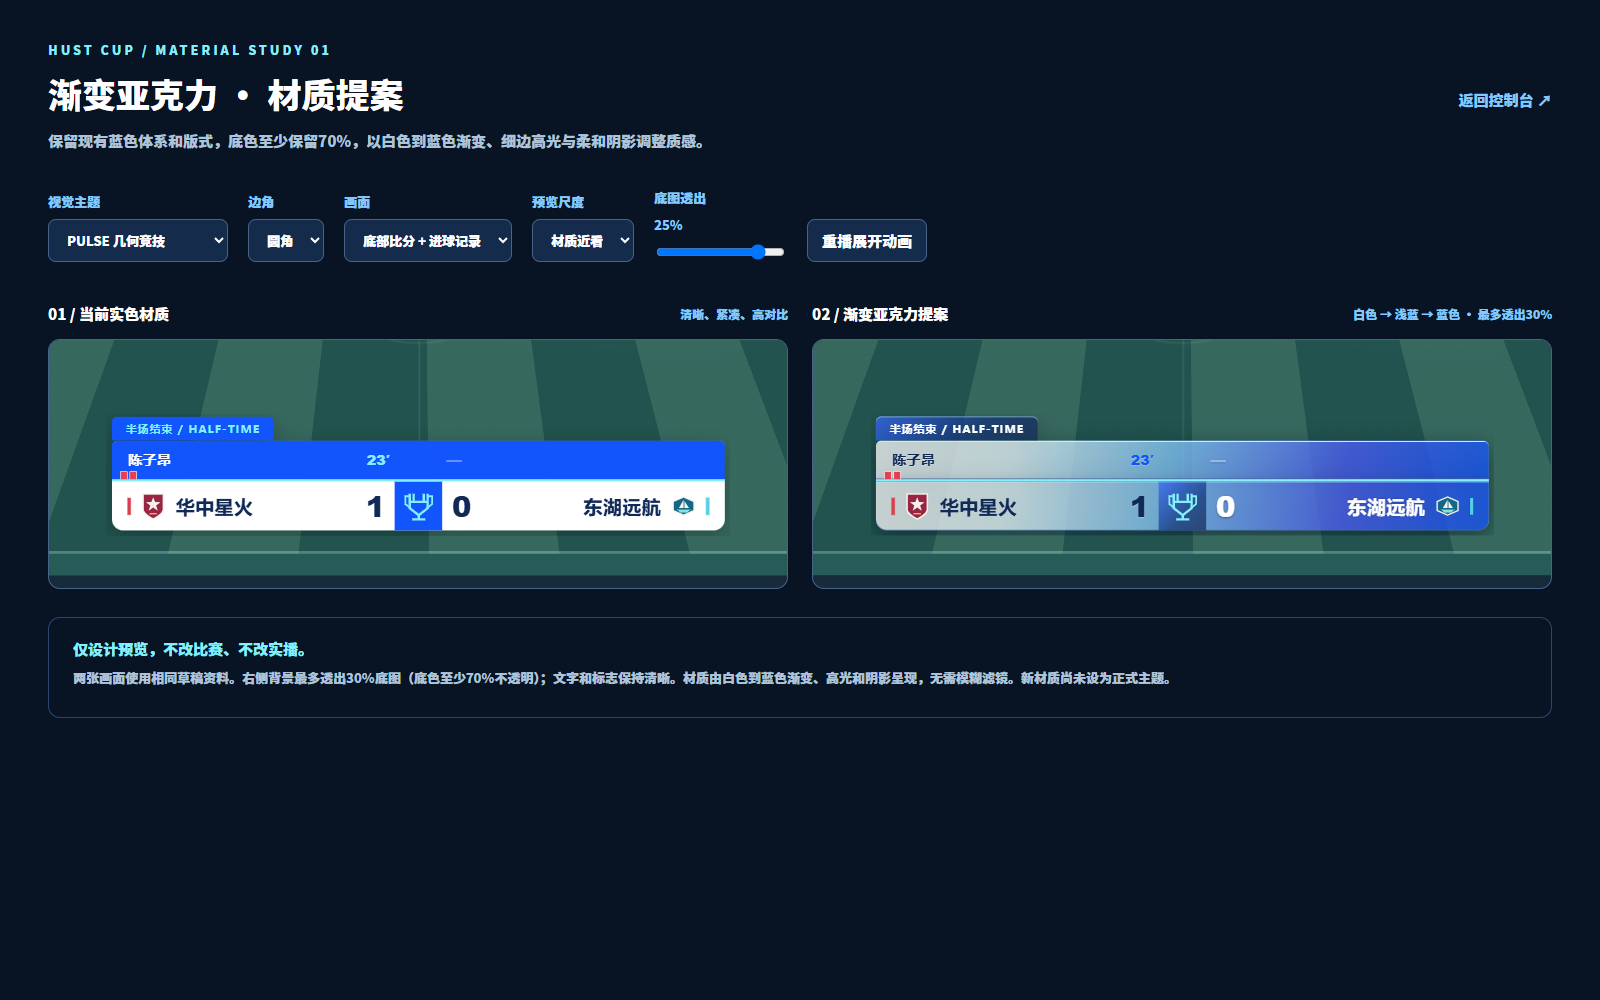
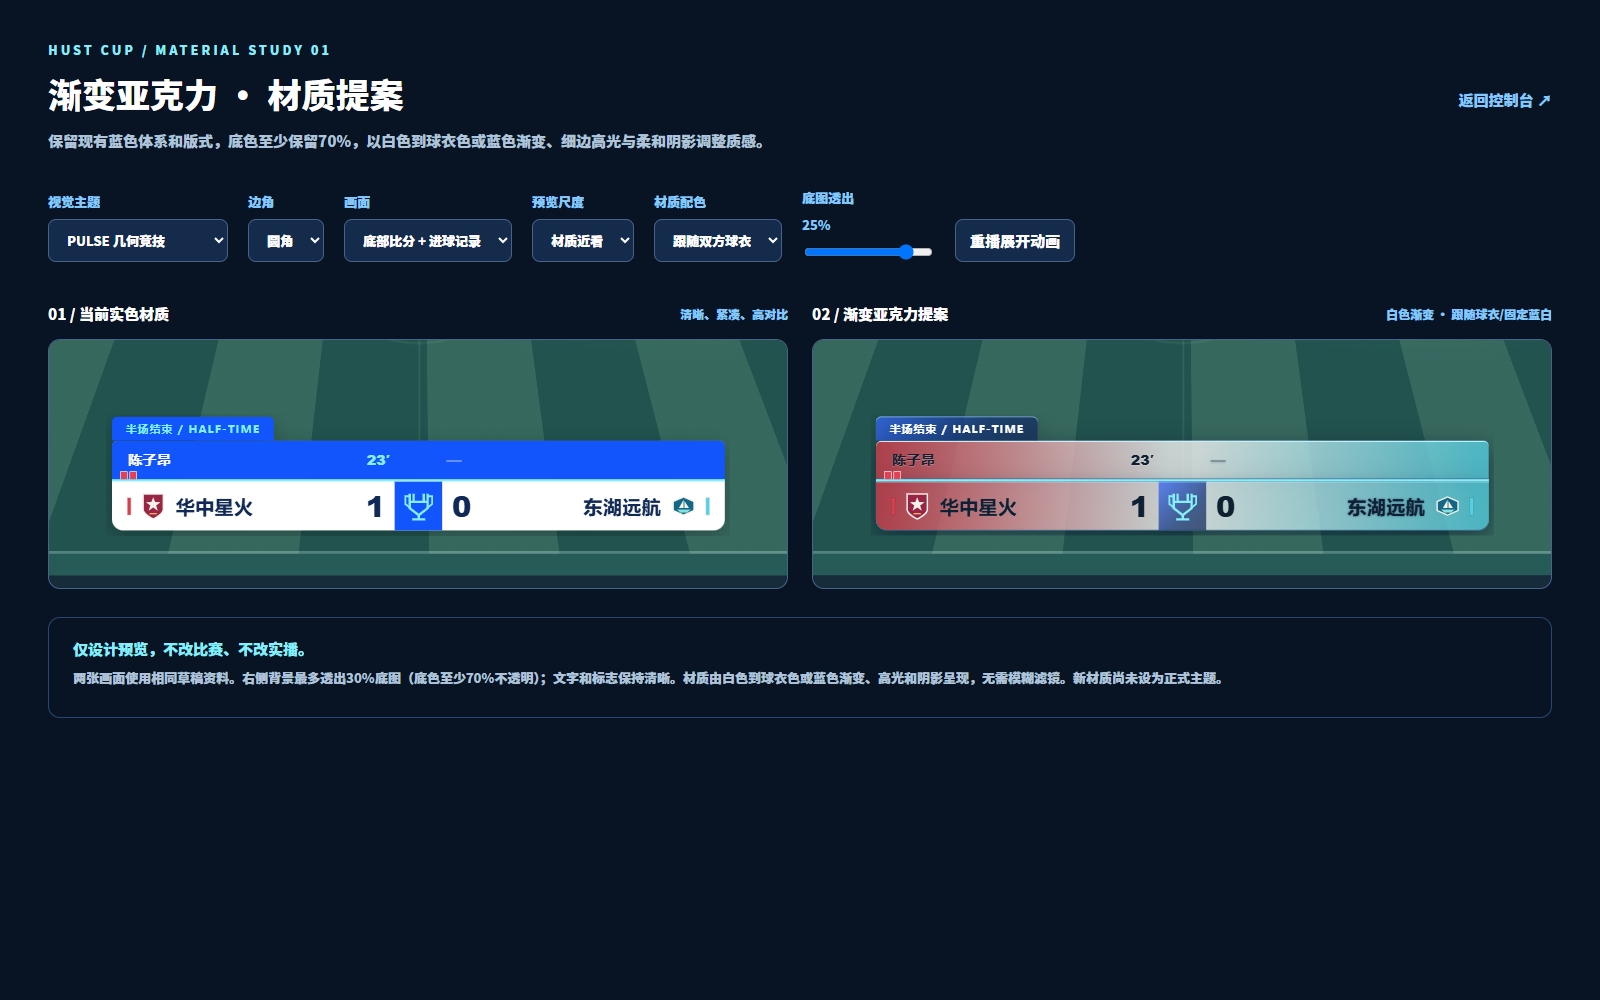
Bind acrylic gradients to match kit colours with readable text

diff --git a/public/material-preview.html b/public/material-preview.html
@@ -1,5 +1,5 @@
 <!doctype html><html lang="zh-CN"><head><meta charset="utf-8"><meta name="viewport" content="width=device-width,initial-scale=1"><title>HUST CUP · 渐变亚克力材质设计预览</title><link rel="stylesheet" href="material-preview.css"></head><body>
-<header><div><small>HUST CUP / MATERIAL STUDY 01</small><h1>渐变亚克力 · 材质提案</h1><p>保留现有蓝色体系和版式，底色至少保留70%，以白色到蓝色渐变、细边高光与柔和阴影调整质感。</p></div><a href="/">返回控制台 ↗</a></header>
-<nav aria-label="材质预览设置"><label>视觉主题<select id="theme"><option value="pulse">PULSE 几何竞技</option><option value="nocturne">NOCTURNE 蓝夜杯赛</option></select></label><label>边角<select id="corners"><option value="round">圆角</option><option value="square">方角</option></select></label><label>画面<select id="scene"><option value="goal">进球 + 常驻比分</option><option value="bottomScore">底部比分 + 进球记录</option><option value="entrance">入场对阵条</option><option value="shootoutCompact">点球大战简版</option><option value="officials">裁判团队</option></select></label><label>预览尺度<select id="detail"><option value="full">完整画面</option><option value="detail">材质近看</option></select></label><label>底图透出 <output id="transparency-value">25%</output><input id="transparency" type="range" min="0" max="30" value="25" aria-label="底图透出比例，最高30%"></label><button id="replay">重播展开动画</button></nav>
-<main><section><div class="caption"><b>01 / 当前实色材质</b><span>清晰、紧凑、高对比</span></div><div class="window"><iframe id="solid" title="当前实色材质预览"></iframe></div></section><section><div class="caption"><b>02 / 渐变亚克力提案</b><span>白色 → 浅蓝 → 蓝色 · 最多透出30%</span></div><div class="window"><iframe id="glass" title="渐变亚克力材质独立预览"></iframe></div></section></main>
-<footer><strong>仅设计预览，不改比赛、不改实播。</strong><p>两张画面使用相同草稿资料。右侧背景最多透出30%底图（底色至少70%不透明）；文字和标志保持清晰。材质由白色到蓝色渐变、高光和阴影呈现，无需模糊滤镜。新材质尚未设为正式主题。</p></footer><script type="module" src="material-preview.js"></script></body></html>
+<header><div><small>HUST CUP / MATERIAL STUDY 01</small><h1>渐变亚克力 · 材质提案</h1><p>保留现有蓝色体系和版式，底色至少保留70%，以白色到球衣色或蓝色渐变、细边高光与柔和阴影调整质感。</p></div><a href="/">返回控制台 ↗</a></header>
+<nav aria-label="材质预览设置"><label>视觉主题<select id="theme"><option value="pulse">PULSE 几何竞技</option><option value="nocturne">NOCTURNE 蓝夜杯赛</option></select></label><label>边角<select id="corners"><option value="round">圆角</option><option value="square">方角</option></select></label><label>画面<select id="scene"><option value="goal">进球 + 常驻比分</option><option value="bottomScore">底部比分 + 进球记录</option><option value="entrance">入场对阵条</option><option value="shootoutCompact">点球大战简版</option><option value="officials">裁判团队</option></select></label><label>预览尺度<select id="detail"><option value="full">完整画面</option><option value="detail">材质近看</option></select></label><label>材质配色<select id="palette"><option value="kits">跟随双方球衣</option><option value="fixed">固定蓝白</option></select></label><label>底图透出 <output id="transparency-value">25%</output><input id="transparency" type="range" min="0" max="30" value="25" aria-label="底图透出比例，最高30%"></label><button id="replay">重播展开动画</button></nav>
+<main><section><div class="caption"><b>01 / 当前实色材质</b><span>清晰、紧凑、高对比</span></div><div class="window"><iframe id="solid" title="当前实色材质预览"></iframe></div></section><section><div class="caption"><b>02 / 渐变亚克力提案</b><span>白色渐变 · 跟随球衣/固定蓝白</span></div><div class="window"><iframe id="glass" title="渐变亚克力材质独立预览"></iframe></div></section></main>
+<footer><strong>仅设计预览，不改比赛、不改实播。</strong><p>两张画面使用相同草稿资料。右侧背景最多透出30%底图（底色至少70%不透明）；文字和标志保持清晰。材质由白色到球衣色或蓝色渐变、高光和阴影呈现，无需模糊滤镜。新材质尚未设为正式主题。</p></footer><script type="module" src="material-preview.js"></script></body></html>

diff --git a/public/graphics.js b/public/graphics.js
@@ -1,3 +1,4 @@
+import {kitSurfaceVariables} from './material-colors.js';
 import {createMotion,ENTER_MS,EXIT_MS} from './motion.js';
 import {scoreboardVisible,scoreboardClock,dismissalMarkers,scoreboardEvent} from './scoreboard.js';
 import {STAT_LABELS,PHASES,goalMarker} from './match.js';
@@ -70,7 +71,7 @@ function kickIcon(value,active=false,unneeded=false){return `<span class="kick $
 function shootout(compact=false){
  const s=data.shootout,status=shootoutStatus(s),count=Math.max(5,s.home.length,s.away.length,status.round);
  const size=compact?8:12,start=Math.max(0,count-size),end=count;
- const rows=['home','away'].map(side=>`<div class="pk-row ${status.next===side&&!status.winner?'current-kicker':''}">${badge(data[side])}<div class="pk-team"><strong>${name(data[side])}</strong>${compact?'':`<small>${esc(data[side].english)}</small>`}</div><b class="pk-score">${status[side]}</b><div class="pk-kicks" style="--round-count:${end-start}">${Array.from({length:end-start},(_,i)=>kickIcon(s[side][start+i],side===status.next&&!status.winner&&start+i===(s[side].indexOf(null)>=0?s[side].indexOf(null):s[side].length),!!status.winner&&s[side][start+i]===undefined)).join('')}</div></div>`).join('');
+ const rows=['home','away'].map(side=>`<div data-team="${side}" class="pk-row ${status.next===side&&!status.winner?'current-kicker':''}">${badge(data[side])}<div class="pk-team"><strong>${name(data[side])}</strong>${compact?'':`<small>${esc(data[side].english)}</small>`}</div><b class="pk-score">${status[side]}</b><div class="pk-kicks" style="--round-count:${end-start}">${Array.from({length:end-start},(_,i)=>kickIcon(s[side][start+i],side===status.next&&!status.winner&&start+i===(s[side].indexOf(null)>=0?s[side].indexOf(null):s[side].length),!!status.winner&&s[side][start+i]===undefined)).join('')}</div></div>`).join('');
  const lastSide=s.home.length===s.away.length?(s.first==='home'?'away':'home'):s.home.length>s.away.length?'home':'away',last=s.players?.[lastSide]?.[s[lastSide].length-1],kickerLine=last?.name?`<div class="pk-kicker-line">上脚罚球 · ${esc(data[lastSide].short)}　${esc(last.number||'')} ${esc(last.name)}</div>`:'';
  const notice=status.winner?(s.confirmed?`${esc(data[status.winner].name)} · 点球获胜`:'已决胜 · 待确认结束'): `${status.suddenDeath?'突然死亡 · ':''}第 ${status.round} 轮 · ${esc(data[status.next].short)}待罚`;
  return compact?`<section class="compact-pk"><div class="compact-pk-title"><span>点球大战</span><b>${notice}</b><small>第 ${start+1}–${end} 轮</small></div>${rows}${kickerLine}</section>`:`<section class="shootout result-pk"><div class="pk-header">${logo()}<div><span>PENALTY SHOOT-OUT</span><strong>点球大战 · 结果</strong></div><div class="pk-match">比赛比分 <b>${data.score.home} : ${data.score.away}</b><small>与点球比分分别保存</small></div></div><div class="rounds"><span>第 ${start+1}–${end} 轮</span><div style="--round-count:${end-start}">${Array.from({length:end-start},(_,i)=>`<span>${start+i+1}</span>`).join('')}</div></div>${rows}<div class="pk-footer"><span>${s.first==='home'?data.home.short:data.away.short}先罚</span><strong>${notice}</strong></div>${kickerLine}</section>`;
@@ -103,6 +104,8 @@ function render(){
  const resolved=isLive?outputScene(session,now):outputScene(session,Date.now());if(isLive&&session.expiresAt&&now<session.expiresAt){resolved.scene=session.scene;}if(isLive&&session.expiresAt&&now>=session.expiresAt){resolved.scene=data.config.restoreScoreboard?'scoreboard':'clear';}if(!isLive&&q.get('hold')==='1'){resolved.scene=previewScene;resolved.elapsed=ENTER_MS+100;}const {scene,elapsed}=resolved;currentElapsed=elapsed;currentScene=scene;
  const theme=isLive?data.config.theme:q.get('theme')||data.config.theme;
  stage.className='stage '+theme+(q.get('transparent')==='1'?' transparent':'')+(!isLive&&q.get('concept')==='acrylic'?' acrylic-prototype':'')+(!isLive&&q.get('backdrop')==='stadium'?' stadium-prototype':'');
+ stage.dataset.materialPalette=!isLive&&q.get('concept')==='acrylic'&&q.get('palette')==='kits'?'kits':'fixed';
+ for(const [key,value] of Object.entries(kitSurfaceVariables(data)))stage.style.setProperty(key,value);
  stage.dataset.corners=(!isLive&&q.has('corners')?q.get('corners'):data.config.cornerRadius===18?'round':'square');
  if(!isLive&&q.get('concept')==='acrylic'){const amount=Number(q.get('transparency')??25);stage.style.setProperty('--material-alpha',String(1-Math.max(0,Math.min(30,Number.isFinite(amount)?amount:25))/100));}else stage.style.removeProperty('--material-alpha');
  document.querySelector('#safe').classList.toggle('visible',q.get('safe')==='1');

diff --git a/public/material-preview.js b/public/material-preview.js
@@ -1,7 +1,7 @@
 const $=s=>document.querySelector(s);
-const initial=new URLSearchParams(location.search);for(const id of ['scene','theme','corners','detail']){const el=$('#'+id),value=initial.get(id);if([...el.options].some(o=>o.value===value))el.value=value;}if(initial.has('transparency'))$('#transparency').value=Math.max(0,Math.min(30,Number(initial.get('transparency'))||0));
+const initial=new URLSearchParams(location.search);for(const id of ['scene','theme','corners','detail','palette']){const el=$('#'+id),value=initial.get(id);if([...el.options].some(o=>o.value===value))el.value=value;}if(initial.has('transparency'))$('#transparency').value=Math.max(0,Math.min(30,Number(initial.get('transparency'))||0));
 function size(target){const detail=$('#detail').value==='detail',s=detail?Math.min(.72,target.clientWidth/1180):target.clientWidth/1920,frame=target.querySelector('iframe');target.classList.toggle('detail',detail);frame.style.transform=`scale(${s})`;frame.style.left=detail?`${target.clientWidth/2-($('#scene').value==='goal'?396:960)*s}px`:'0';frame.style.top=detail?`${155-950*s}px`:'0';}
-function render(animated=false){$('#transparency-value').value=$('#transparency').value+'%';for(const id of ['solid','glass']){const q=new URLSearchParams({scene:$('#scene').value,transparency:$('#transparency').value,theme:$('#theme').value,corners:$('#corners').value,context:'halftime',backdrop:'stadium',...(animated?{}:{hold:'1'}),...(id==='glass'?{concept:'acrylic'}:{})});$('#'+id).src='overlay.html?'+q;size($('#'+id).parentElement);}}
+function render(animated=false){$('#transparency-value').value=$('#transparency').value+'%';for(const id of ['solid','glass']){const q=new URLSearchParams({scene:$('#scene').value,palette:$('#palette').value,transparency:$('#transparency').value,theme:$('#theme').value,corners:$('#corners').value,context:'halftime',backdrop:'stadium',...(animated?{}:{hold:'1'}),...(id==='glass'?{concept:'acrylic'}:{})});$('#'+id).src='overlay.html?'+q;size($('#'+id).parentElement);}}
 for(const el of document.querySelectorAll('select'))el.addEventListener('change',()=>render());
 $('#transparency').addEventListener('input',()=>render());
 $('#replay').onclick=()=>render(true);

diff --git a/public/surfaces.css b/public/surfaces.css
@@ -32,3 +32,15 @@ body[data-corners] button,body[data-corners] input,body[data-corners] select,bod
 .acrylic-prototype .score-team.away,.acrylic-prototype .score-value[data-side="away"],.acrylic-prototype .scorers:last-child{color:#fff;text-shadow:0 1px 4px #10295688}
 .acrylic-prototype .scorers:first-child b{color:#1355fc}.acrylic-prototype .scorers:last-child b{color:#fff}
 .acrylic-prototype .mini-content small,.acrylic-prototype .info-content small{color:#102956}
+
+/* Each side follows its current match kit; white remains the shared centre. */
+.acrylic-prototype[data-material-palette="kits"] .score-row,.acrylic-prototype[data-material-palette="kits"] .bottom-goals{background:linear-gradient(90deg,rgb(var(--home-rgb) / var(--material-alpha)) 0%,rgb(255 255 255 / var(--material-alpha)) 48%,rgb(255 255 255 / var(--material-alpha)) 52%,rgb(var(--away-rgb) / var(--material-alpha)) 100%)}
+.acrylic-prototype[data-material-palette="kits"] .score-team.home,.acrylic-prototype[data-material-palette="kits"] .scorers:first-child{color:var(--home-ink)}
+.acrylic-prototype[data-material-palette="kits"] .score-team.away,.acrylic-prototype[data-material-palette="kits"] .scorers:last-child{color:var(--away-ink)}
+.acrylic-prototype[data-material-palette="kits"] .score-value{color:#102033;text-shadow:none}
+.acrylic-prototype[data-material-palette="kits"] .scorers b{color:inherit}
+.acrylic-prototype[data-material-palette="kits"] .mini-event{background:linear-gradient(105deg,rgb(255 255 255 / var(--material-alpha)),rgb(var(--event-rgb) / var(--material-alpha)));color:#102033}
+.acrylic-prototype[data-material-palette="kits"] .mini-heading>b{color:var(--event-edge-ink)}
+
+.acrylic-prototype[data-material-palette="kits"] .pk-row[data-team="home"]{background:linear-gradient(90deg,rgb(255 255 255 / var(--material-alpha)),rgb(var(--home-rgb) / var(--material-alpha)));color:#102033}
+.acrylic-prototype[data-material-palette="kits"] .pk-row[data-team="away"]{background:linear-gradient(90deg,rgb(255 255 255 / var(--material-alpha)),rgb(var(--away-rgb) / var(--material-alpha)));color:#102033}

diff --git a/public/material-colors.js b/public/material-colors.js
@@ -1,0 +1,14 @@
+// Read match kit colours, never team brand colours. Pure helpers also support preview QA.
+export function kitChannels(value,fallback='#1355fc'){
+ const hex=/^#[0-9a-f]{6}$/i.test(value||'')?value:fallback;
+ return hex.slice(1).match(/../g).map(v=>parseInt(v,16));
+}
+export function readableInk(channels,whiteMix=0){
+ const linear=channels.map(v=>{const x=(v*(1-whiteMix)+255*whiteMix)/255;return x<=.04045?x/12.92:((x+.055)/1.055)**2.4;});
+ const l=linear[0]*.2126+linear[1]*.7152+linear[2]*.0722;
+ return (l+.05)/.05>1.05/(l+.05)?'#102033':'#ffffff';
+}
+export function kitSurfaceVariables(data){
+ const home=kitChannels(data.home.kitColor),away=kitChannels(data.away.kitColor),side=data.goal?.team==='away'?'away':'home',event=side==='away'?away:home;
+ return {'--home-rgb':home.join(' '),'--away-rgb':away.join(' '),'--event-rgb':event.join(' '),'--home-ink':readableInk(home,.3),'--away-ink':readableInk(away,.3),'--event-edge-ink':readableInk(event)};
+}

diff --git a/docs/v1.5边角与材质说明.md b/docs/v1.5边角与材质说明.md
@@ -10,3 +10,5 @@
 
 示意图：design-previews/v1.5.0/acrylic-detail-comparison.png；交互页面：http://127.0.0.1:3210/material-preview.html。
 验证复现：npm test；npm run review。测试需要Edge及开发依赖，正常播出无需npm依赖。全部浏览器回归使用临时独立数据，不操作当前比赛。
+
+材质提案新增“跟随双方球衣／固定蓝白”切换，默认跟随本场kitColor而非球队品牌色：主客队对应区域各用本队球衣渐变，中央保留白色；进球条随进球队球衣，点球两队行分别配色。仍最多透出30%，仅预览，不自动应用到OBS。修改赛前球衣色后刷新提案即可。
